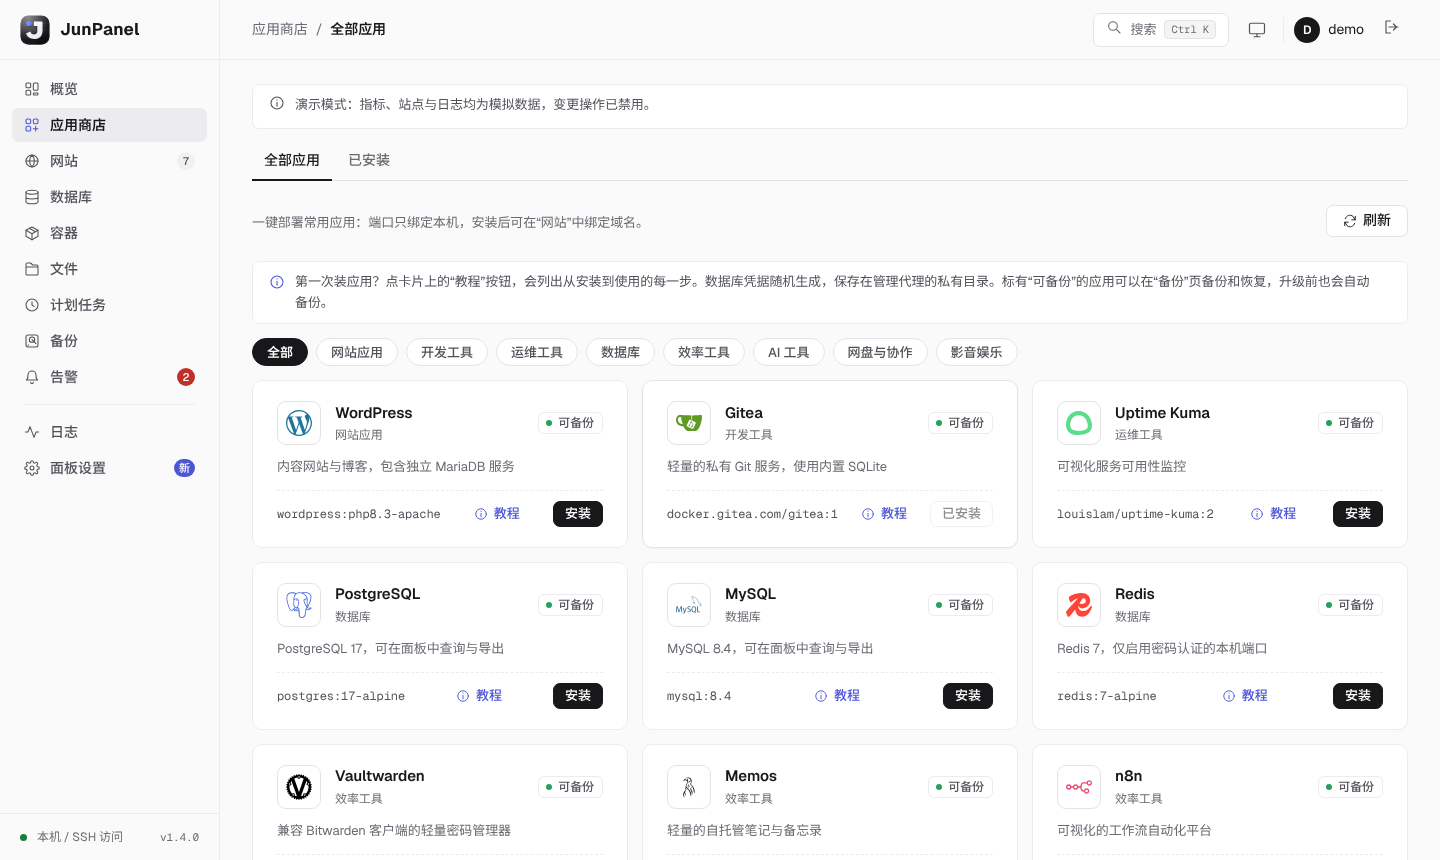
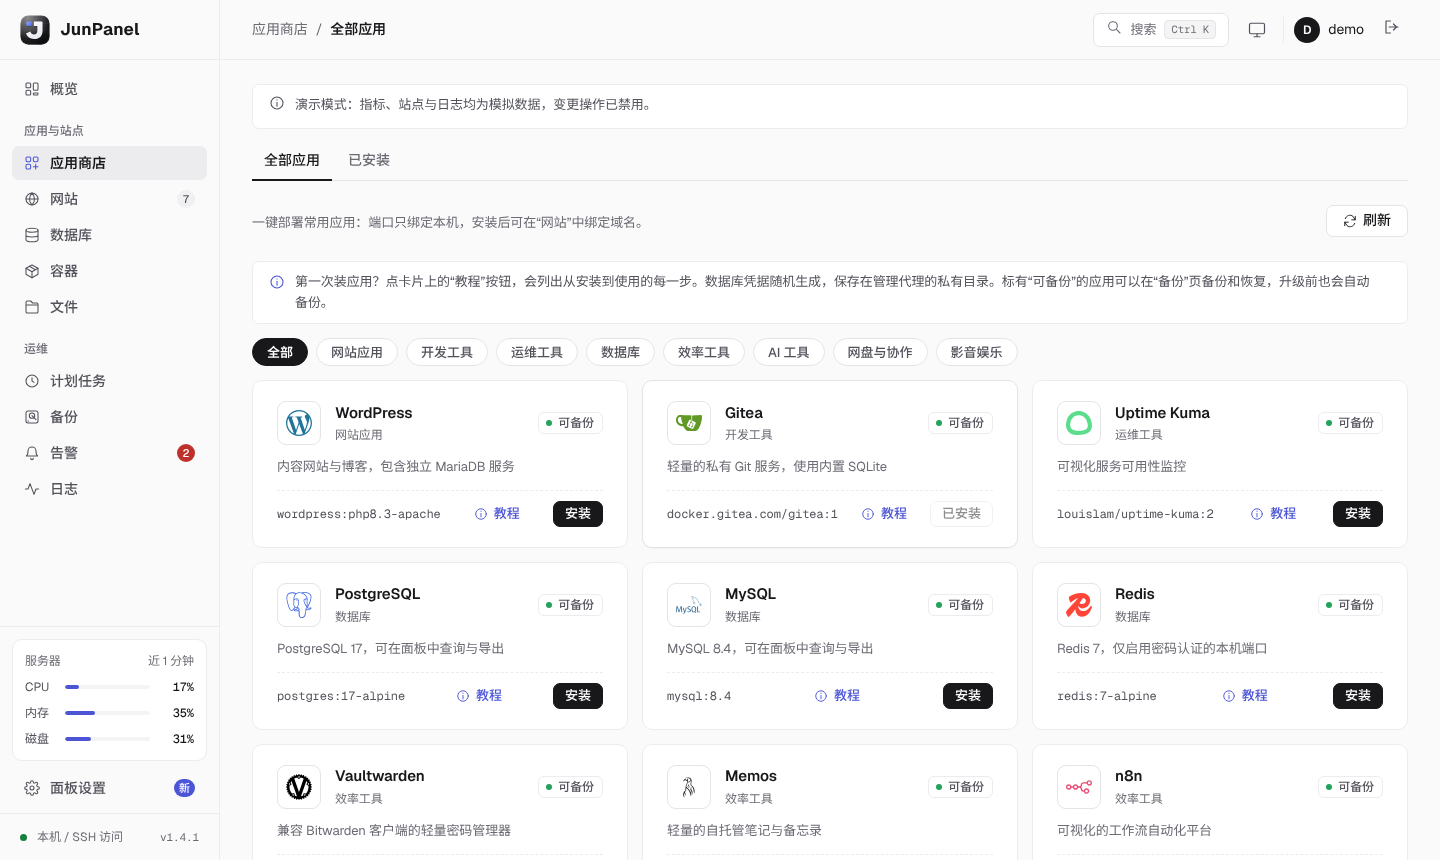
Balance the sidebar: menu sections, server card and settings at the foot
Claude-Session: https://claude.ai/code/session_01TVKeKoCaGjGZwaa46WfNFp

diff --git a/web/app.js b/web/app.js
@@ -85,16 +85,38 @@ const menu = [
 ];
 const groupRoutes = g => Object.keys(routes).filter(r => routes[r][3] === g);
 const groupLabel = g => (menu.find(m => m[0] === g) || [])[1] || '';
+// The menu reads in sections; panel settings sit at the foot of the sidebar with the connection status.
+const menuSections = [['', ['overview']], ['应用与站点', ['apps', 'sites', 'databases', 'containers', 'files']], ['运维', ['schedules', 'backups', 'alerts', 'logs']]];
 (function buildNav() {
-  const nav = $('#nav');
-  menu.forEach(([g, label, symbol, badge]) => {
-    if (g === 'logs') nav.append(el('div', 'nav-divider'));
+  const nav = $('#nav'), foot = $('#nav-foot');
+  const link = g => {
+    const [, label, symbol, badge] = menu.find(m => m[0] === g);
     const b = el('button', 'nav-link'); b.type = 'button'; b.dataset.group = g; b.dataset.route = groupRoutes(g)[0];
     b.append(icon(symbol), el('span', '', label));
     if (badge) { const n = el('span', `nav-badge${badge === 'site-badge' ? ' count' : ''}`); n.id = badge; n.hidden = true; b.append(n); }
-    nav.append(b);
-  });
+    return b;
+  };
+  menuSections.forEach(([title, groups]) => { const sec = el('div', 'nav-section'); if (title) sec.append(el('div', 'nav-heading', title)); groups.forEach(g => sec.append(link(g))); nav.append(sec); });
+  const meter = el('div', 'side-meter'); meter.id = 'side-meter'; meter.hidden = true;
+  foot.append(meter, link('settings'));
 })();
+// The sidebar card shows the latest one-minute averages from the monitoring history; quiet while the tab is hidden or signed out.
+let meterTimer = null;
+async function loadMeter() {
+  if (document.hidden || !state.csrf) return;
+  try {
+    const d = await api('/history?range=1h'), p = (d.points || []).at(-1), box = $('#side-meter');
+    if (!p) { box.hidden = true; return; }
+    const head = el('div', 'side-meter-title'); head.append(el('span', '', '服务器'), el('span', '', '近 1 分钟'));
+    box.replaceChildren(head, ...[['CPU', p.cpu], ['内存', p.memory], ['磁盘', p.disk]].map(([k, v]) => {
+      const row = el('div', 'side-meter-row'), bar = el('div', 'side-meter-bar'), fill = el('span', v >= 90 ? 'bad' : v >= 75 ? 'warn' : ''), pct = Math.max(0, Math.min(100, Number(v) || 0));
+      fill.style.width = `${pct.toFixed(0)}%`; bar.append(fill); bar.setAttribute('role', 'meter'); bar.setAttribute('aria-label', k); bar.setAttribute('aria-valuenow', pct.toFixed(0)); bar.setAttribute('aria-valuemin', '0'); bar.setAttribute('aria-valuemax', '100');
+      row.append(el('span', '', k), bar, el('b', '', `${pct.toFixed(0)}%`)); return row;
+    }));
+    box.hidden = false;
+  } catch {}
+}
+function startMeter() { clearInterval(meterTimer); loadMeter(); meterTimer = setInterval(loadMeter, 60000); }
 const view = $('#view');
 const bytes = n => { if (n == null || !Number.isFinite(Number(n))) return '—'; let i = 0; n = Number(n); while (n >= 1024 && i < 4) { n /= 1024; i++; } return `${n.toFixed(i ? (n < 10 ? 1 : 0) : 0)} ${['B','KB','MB','GB','TB'][i]}`; };
 const percent = n => n == null ? '采样中' : `${Number(n).toFixed(1)}%`;
@@ -153,7 +175,7 @@ function clearPage() { state.epoch++; state.timers.forEach(clearInterval); state
 function interval(fn, ms) { state.timers.push(setInterval(() => { if (!document.hidden) fn().catch(e => { $('#connection-error').hidden = false; $('#connection-error').textContent = e.message; }); }, ms)); }
 function showLogin() { clearPage(); closeModal(); state.csrf = ''; $('#application').hidden = true; $('#login').hidden = false; }
 function setSiteBadge(count) { const b = $('#site-badge'); b.hidden = count == null; b.textContent = count ?? ''; }
-async function enter(session) { Object.assign(state, session); $('#login').hidden = true; $('#application').hidden = false; $('#demo-banner').hidden = !state.demo; $('#current-user').textContent = state.user; $('#user-avatar').textContent = (state.user || 'J').slice(0, 1).toUpperCase(); $('#login-password').value = ''; await navigate(location.hash.slice(1).split('?')[0] || 'overview'); const currentCSRF=state.csrf; Promise.allSettled([api('/sites'),api('/apps'),api('/alerts'),api('/upgrade')]).then(([sites,apps,alerts,upgrade])=>{if(state.csrf!==currentCSRF)return;if(sites.status==='fulfilled'){state.sites=inventorySites(sites.value);setSiteBadge(sites.value.error?null:inventorySites(sites.value).length);}if(apps.status==='fulfilled')state.apps=apps.value;if(alerts.status==='fulfilled')setAlertBadge(alerts.value.active.length);if(upgrade.status==='fulfilled')setUpgradeBadge(upgrade.value.available?upgrade.value.latest.version:'');}); }
+async function enter(session) { Object.assign(state, session); $('#login').hidden = true; $('#application').hidden = false; $('#demo-banner').hidden = !state.demo; $('#current-user').textContent = state.user; $('#user-avatar').textContent = (state.user || 'J').slice(0, 1).toUpperCase(); $('#login-password').value = ''; await navigate(location.hash.slice(1).split('?')[0] || 'overview'); startMeter(); const currentCSRF=state.csrf; Promise.allSettled([api('/sites'),api('/apps'),api('/alerts'),api('/upgrade')]).then(([sites,apps,alerts,upgrade])=>{if(state.csrf!==currentCSRF)return;if(sites.status==='fulfilled'){state.sites=inventorySites(sites.value);setSiteBadge(sites.value.error?null:inventorySites(sites.value).length);}if(apps.status==='fulfilled')state.apps=apps.value;if(alerts.status==='fulfilled')setAlertBadge(alerts.value.active.length);if(upgrade.status==='fulfilled')setUpgradeBadge(upgrade.value.available?upgrade.value.latest.version:'');}); }
 $('#login-form').onsubmit = async e => { e.preventDefault(); const b = $('#login-submit'); b.disabled = true; $('#login-error').textContent = ''; try { const r = await api('/login', { user: $('#login-user').value, password: $('#login-password').value, otp: $('#login-otp').value }); await enter(r); } catch(e) { $('#login-error').textContent = e.message; } finally { b.disabled = false; } };
 $('#show-password').onclick = () => { const i = $('#login-password'); i.type = i.type === 'password' ? 'text' : 'password'; };
 $('#logout').onclick = async () => { try { await api('/logout', {}); } finally { showLogin(); } };
@@ -174,7 +196,7 @@ applyTheme();
 requestAnimationFrame(() => requestAnimationFrame(() => { document.documentElement.dataset.ready = '1'; }));
 systemDark.addEventListener('change', () => { if (themeMode === 'auto') applyTheme(); });
 $('#theme-toggle').onclick = () => { const next = themeModes[(themeModes.indexOf(themeMode) + 1) % themeModes.length]; applyTheme(next); try { localStorage.setItem('junpanel-theme', next); } catch {} toast(`主题：${themeNames[next]}`); };
-$$('#nav [data-route]').forEach(b => b.onclick = () => navigate(b.dataset.route));
+$$('#nav [data-route], #nav-foot [data-route]').forEach(b => b.onclick = () => navigate(b.dataset.route));
 window.addEventListener('hashchange', () => { const r = location.hash.slice(1).split('?')[0]; if (state.csrf && r !== state.route) navigate(r); });
 let lastActivity = 0;
 ['pointerdown','keydown'].forEach(type => document.addEventListener(type, () => { if (!state.csrf || Date.now() - lastActivity < 60000) return; lastActivity = Date.now(); api('/heartbeat', {}).catch(() => {}); }, { passive: true }));
@@ -186,7 +208,7 @@ function drawChrome() {
   crumb.append(el('strong', '', siblings.length > 1 ? r[0] : label));
   document.title = `${siblings.length > 1 ? r[0] + ' · ' + label : label} · JunPanel`;
   document.body.dataset.route = state.route;
-  $$('#nav .nav-link').forEach(n => { const active = n.dataset.group === group; n.classList.toggle('active', active); if (active) n.setAttribute('aria-current', 'page'); else n.removeAttribute('aria-current'); });
+  $$('#nav .nav-link, #nav-foot .nav-link').forEach(n => { const active = n.dataset.group === group; n.classList.toggle('active', active); if (active) n.setAttribute('aria-current', 'page'); else n.removeAttribute('aria-current'); });
   const sub = $('#subnav'); sub.hidden = siblings.length < 2;
   sub.replaceChildren(...siblings.map(s => { const b = el('button', `subnav-item${s === state.route ? ' active' : ''}`, routes[s][0]); b.type = 'button'; b.onclick = () => navigate(s); return b; }));
   $('#page-title').textContent = siblings.length > 1 ? '' : label; $('#page-title').hidden = siblings.length > 1;

diff --git a/web/style.css b/web/style.css
@@ -670,3 +670,29 @@ body { letter-spacing: -.006em; font-feature-settings: "ss01" 0; }
 .app-logo.has-icon { background: #fff; border-color: var(--line); }
 .app-logo.has-icon img { display: block; width: 26px; height: 26px; object-fit: contain; }
 :root[data-theme=dark] .app-logo.has-icon { border-color: transparent; }
+
+/* ---- Sidebar: sections at the top, settings and status at the foot ---- */
+.nav-section + .nav-section { margin-top: 16px; }
+.nav-heading { padding: 0 12px 6px; color: var(--side-muted); font-size: 12px; font-weight: 500; }
+.nav-foot { padding: 8px 12px; border-top: 1px solid var(--side-line); }
+.nav-foot .nav-link { margin: 0; }
+@media (min-height: 900px) {
+  .nav-link { height: 38px; }
+  .nav-section + .nav-section { margin-top: 20px; }
+  #nav { padding-top: 16px; }
+}
+/* ---- Wide screens: the content column is centred, so the margins match ---- */
+main { margin-inline: auto; }
+@container (min-width: 900px) {
+  .hero-head { flex-wrap: wrap; row-gap: 12px; }
+  .hero-head > div { flex-basis: calc(100% - 20px); }
+  .hero-head > .button { margin-left: 20px; }
+}
+.side-meter { margin: 4px 0 10px; padding: 12px; border: 1px solid var(--side-line); border-radius: var(--radius-card); background: var(--card); }
+.side-meter-title { display: flex; justify-content: space-between; margin-bottom: 4px; color: var(--side-muted); font-size: 12px; }
+.side-meter-row { display: grid; grid-template-columns: 32px minmax(0, 1fr) 36px; align-items: center; gap: 8px; margin-top: 8px; color: var(--side-text); font-size: 12px; }
+.side-meter-bar { height: 4px; border-radius: 2px; background: var(--fill); overflow: hidden; }
+.side-meter-bar span { display: block; height: 100%; border-radius: 2px; background: var(--primary); transition: width .4s ease; }
+.side-meter-bar span.warn { background: var(--dot-warn); } .side-meter-bar span.bad { background: var(--dot-bad); }
+.side-meter-row b { font-family: var(--font-mono); font-weight: 500; text-align: right; color: var(--side-strong); }
+@media (max-height: 760px) { .side-meter { display: none !important; } }

diff --git a/web/index.html b/web/index.html
@@ -42,6 +42,7 @@
     <aside class="sidebar" id="sidebar">
       <a class="brand" href="/"><img src="/logo.svg" alt="" width="30" height="30"><strong>JunPanel</strong></a>
       <nav id="nav" aria-label="主菜单"></nav>
+      <div class="nav-foot" id="nav-foot"></div>
       <div class="sidebar-bottom">
         <span class="status-dot"></span><span id="access-label">本机连接</span>
         <span class="sidebar-version">v<span id="sidebar-version">—</span></span>
